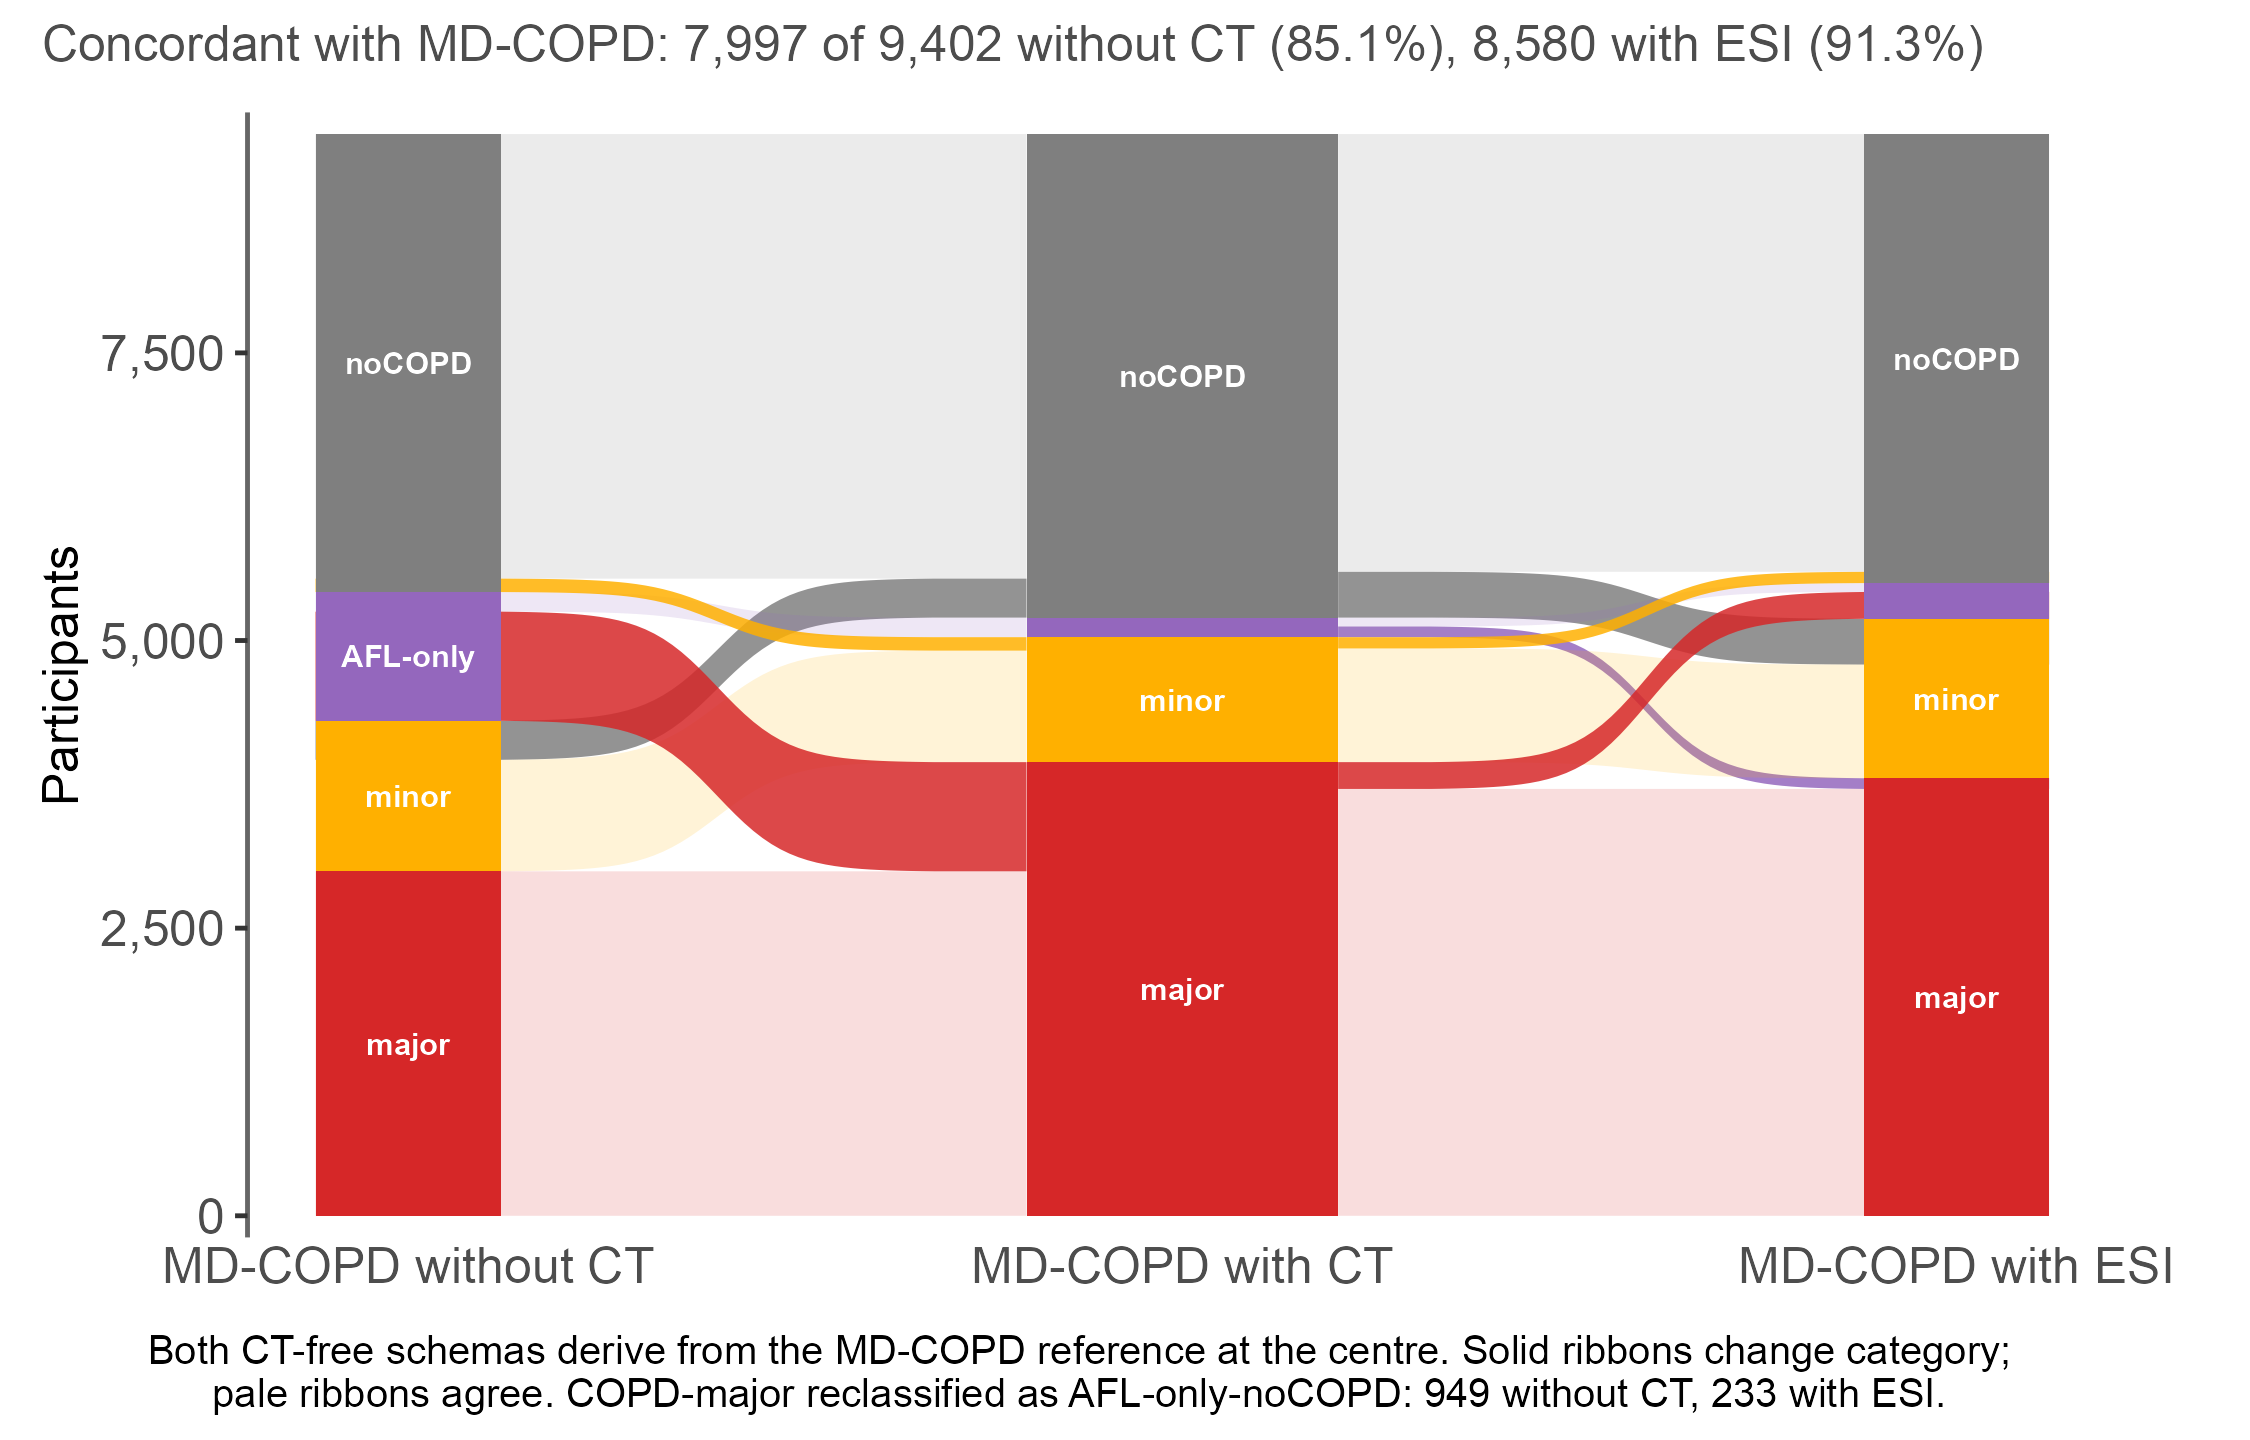
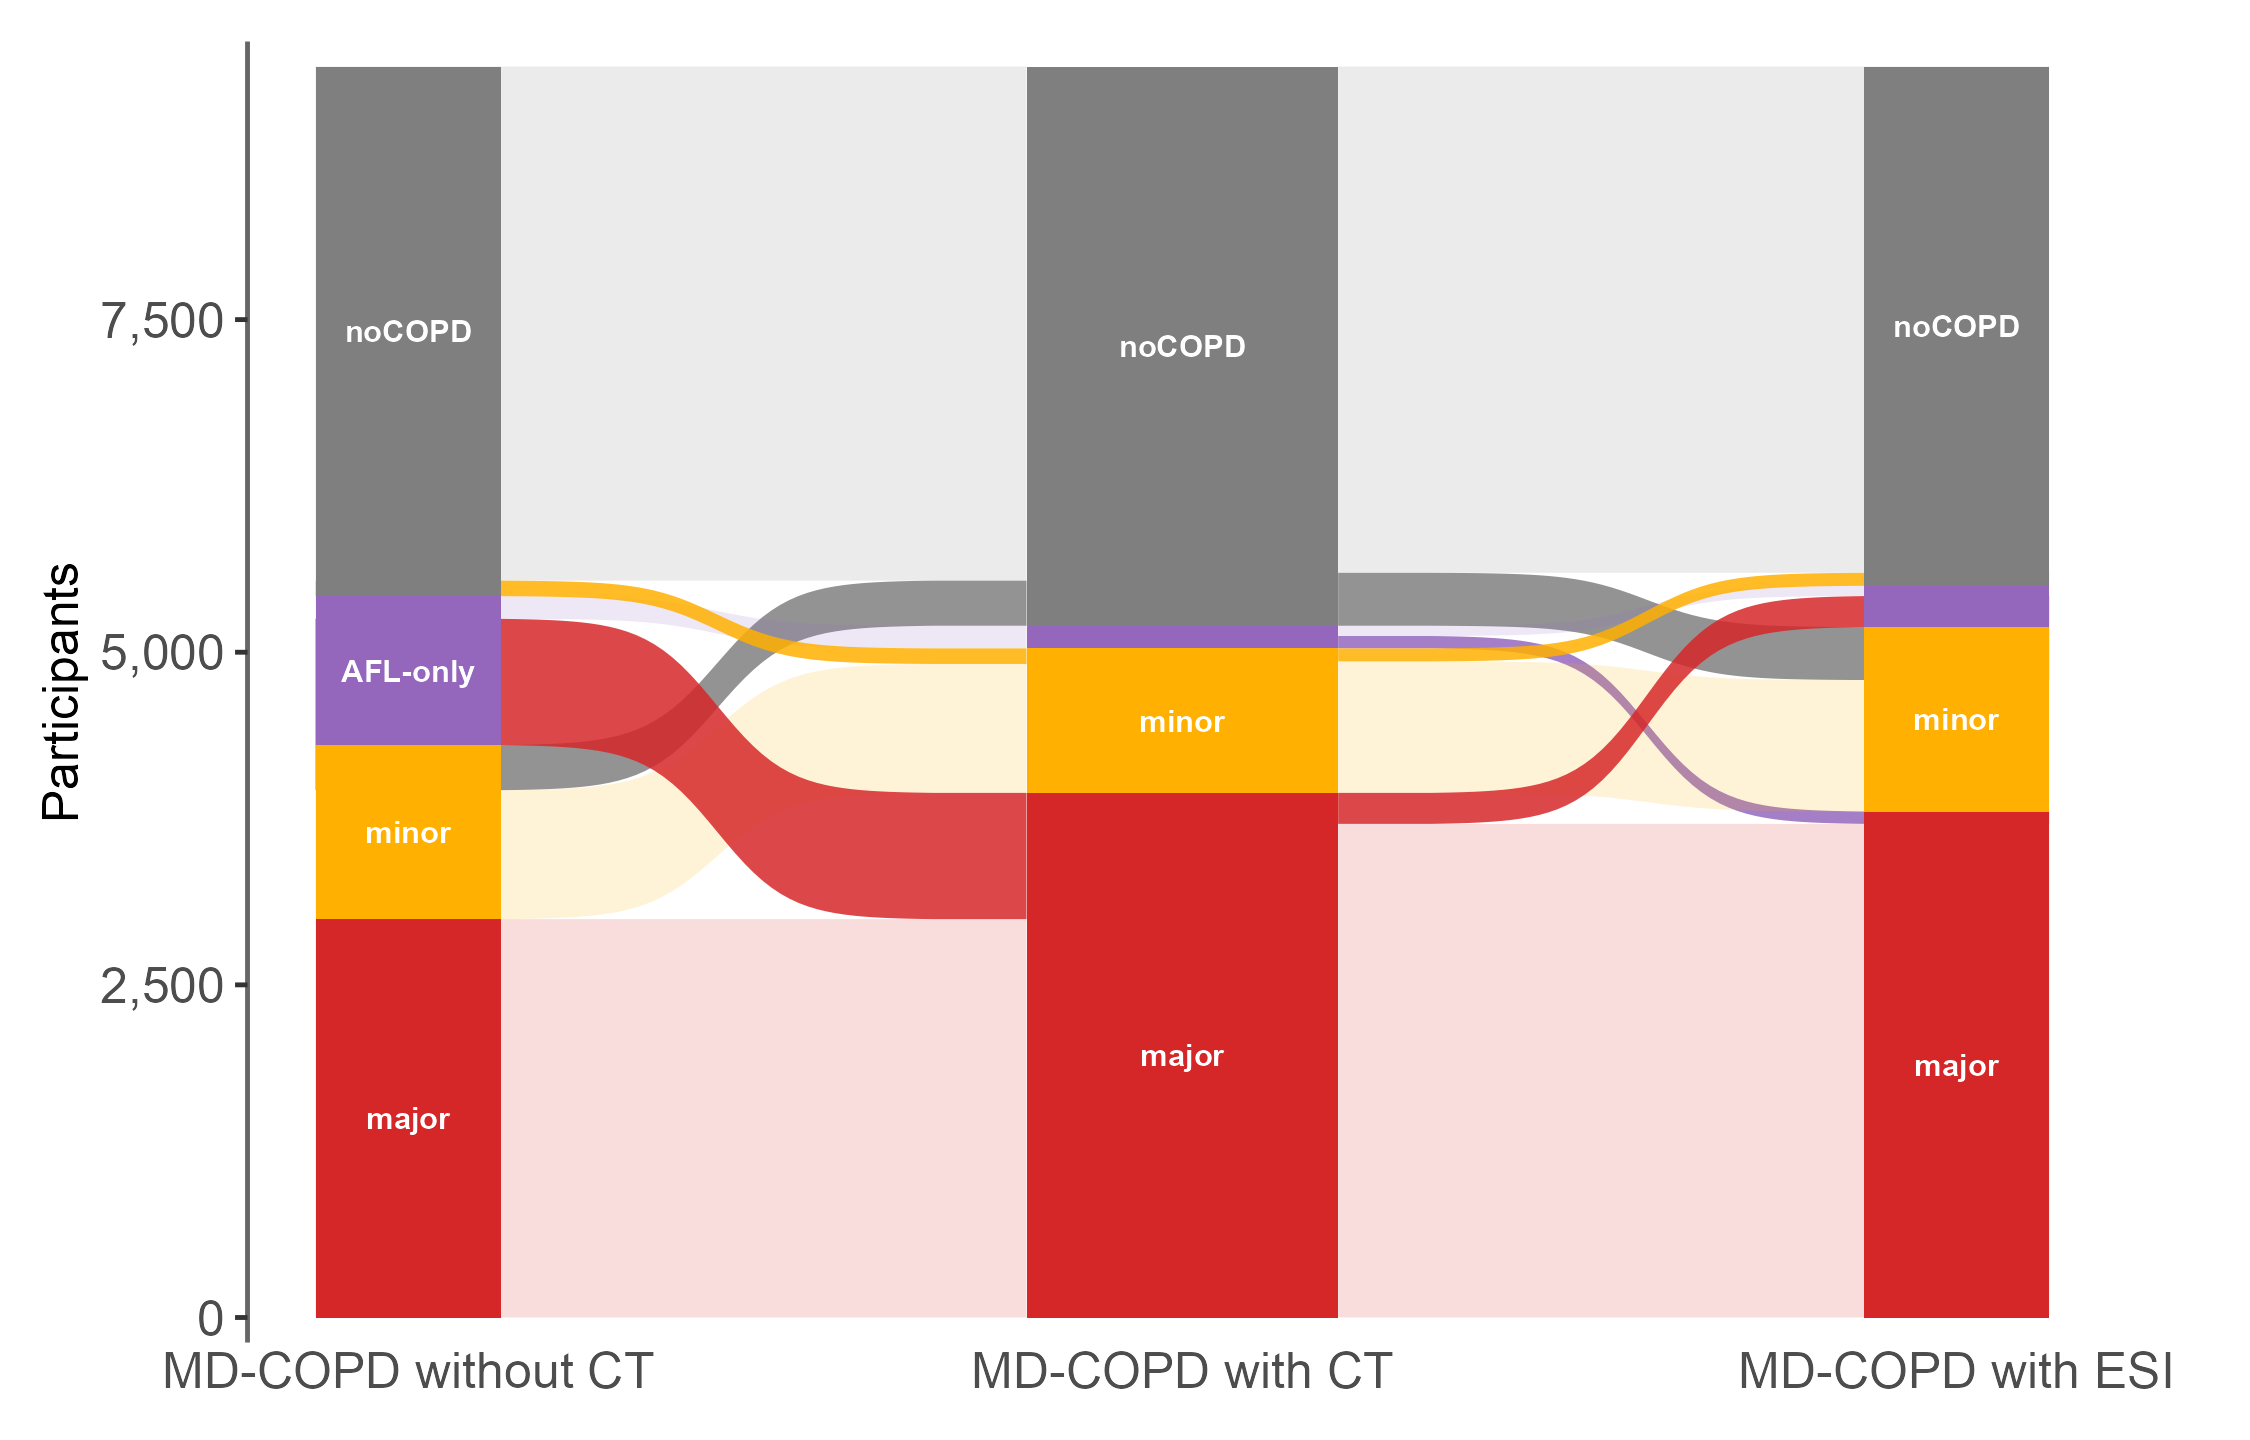
Strip titles off the figures, check for clipping, move two tables to the Supplement
No titles above the panels. Figure 1's legend is written to a sibling .md
instead of being drawn into the raster, which is where a manuscript legend
belongs and also removes what kept pushing text into the canvas edge. The
category figures name their category in a caption beneath the panels rather
than a title above them.

check_edges.R measures what validate_layout explicitly cannot: its header says
text clipping is undetectable and the author must eyeball the PNG, and
eyeballing missed a clipped axis label four times in a row today. It reads the
rendered image and requires blank pixels on all four sides, so a cut-off label
fails the run. It earned itself immediately: moving Figure 1's subtitle into
the caption pushed ink to the left edge and the check caught it before the
figure was looked at.

Discrimination and the threshold fitting move to a Supplement section as
Tables S1 and S2. Both are supporting detail rather than the argument, and
Table 3 is easier to read without the discrimination rows appended to it.

diff --git a/ctfree/DRAFT_TABLES.md b/ctfree/DRAFT_TABLES.md
@@ -74,25 +74,6 @@ covariates account for.
 |  | COPD-minor | 1,386 | 1.76 (1.53–2.01) | 1.94 (1.68–2.24) | 3.88 (1.63–9.18) | 5.31 (2.37–11.90) | 3.28 (2.82–3.79) | 2.29 (2.01–2.61) |
 |  | COPD-major | 3,801 | 3.55 (3.24–3.88) | 2.76 (2.50–3.05) | 64.23 (39.37–137.90) | 42.72 (23.45–77.82) | 5.18 (4.67–5.71) | 4.19 (3.80–4.62) |
 
-**Discrimination**
-
-| Schema | All-cause C-index | Respiratory C-index | Exacerbation AIC |
-|---|---|---|---|
-| 1 Fixed ratio | 0.6945 | 0.8454 | 30326 |
-| 2 MD-COPD with CT | 0.7034 | 0.8527 | 30168 |
-| 3 without CT | 0.7219 | 0.8755 | 29970 |
-| 4 with ESI | 0.7079 | 0.8581 | 30066 |
-
-## Table 4. Fitting the CT-free schemas to approximate MD-COPD
-
-| Schema | Count threshold | ESI threshold | In-sample macro-F1 | Held-out macro-F1 |
-|---|---|---|---|---|
-| 3 without CT | ≥ 2 | — | 0.7202 | 0.7203 |
-| 4 with ESI | ≥ 2 | 1.25 | 0.7542 | 0.7532 |
-
-Schema 4 exceeds schema 3 by 0.0329 (0.0159 to 0.0498) across 25 held-out folds.
-
-
 ## Results sentence, replacing the former Table 5
 
 > MD-COPD improved on the fixed ratio for every outcome. Because fixed-ratio
@@ -104,4 +85,35 @@ Schema 4 exceeds schema 3 by 0.0329 (0.0159 to 0.0498) across 25 held-out folds.
 > small, with the C-index rising from 0.694 to 0.703 for all-cause mortality,
 > so the framework's advantage lies in reclassifying an identifiable
 > minority correctly rather than in improved prediction overall.
+
+
+---
+
+# Supplement
+
+Discrimination and the threshold fitting are supporting detail rather than
+the argument, so they sit here rather than in the main tables.
+
+
+## Table S1. Discrimination under each schema
+
+Every model carries the same covariates. The symptoms-only schema has the
+best discrimination on all three outcomes; Table 3 shows what it costs to
+get it.
+
+| Schema | All-cause C-index | Respiratory C-index | Exacerbation AIC |
+|---|---|---|---|
+| 1 Fixed ratio | 0.6945 | 0.8454 | 30326 |
+| 2 MD-COPD with CT | 0.7034 | 0.8527 | 30168 |
+| 3 without CT | 0.7219 | 0.8755 | 29970 |
+| 4 with ESI | 0.7079 | 0.8581 | 30066 |
+
+## Table S2. Fitting the CT-free schemas to approximate MD-COPD
+
+| Schema | Count threshold | ESI threshold | In-sample macro-F1 | Held-out macro-F1 |
+|---|---|---|---|---|
+| 3 without CT | ≥ 2 | — | 0.7202 | 0.7203 |
+| 4 with ESI | ≥ 2 | 1.25 | 0.7542 | 0.7532 |
+
+Schema 4 exceeds schema 3 by 0.0329 (0.0159 to 0.0498) across 25 held-out folds.
 

diff --git a/ctfree/figures/figure1_flow_legend.md b/ctfree/figures/figure1_flow_legend.md
@@ -1,0 +1,3 @@
+**Figure 1. Reclassification of the MD-COPD categories when chest CT is unavailable.**
+
+Participants are shown under the CT-based MD-COPD classification (centre) and under each CT-free alternative: symptom criteria alone (left) and the ESI-based schema (right). Both alternatives derive from the central reference. Ribbons are coloured by MD-COPD category; solid ribbons change category under that alternative and pale ribbons agree. 7,997 of 9,402 participants (85.1%) keep their category without CT and 8,580 (91.3%) with ESI. The difference is concentrated in COPD-major, of whom 949 are reclassified as AFL-only-noCOPD without CT against 233 with ESI. Strata smaller than 3.5% of the cohort are left unlabelled.
